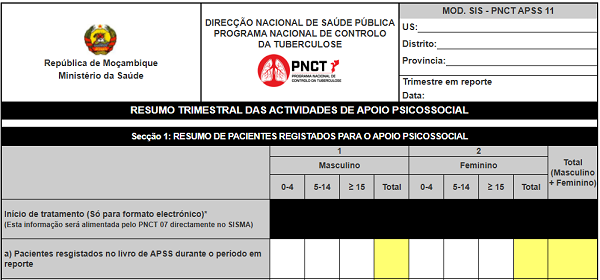
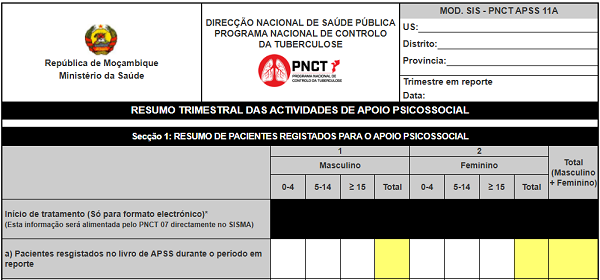
HTML: Adicionei endereço de acesso ao serviço 'Ficha de Resumo Trimestral de Avaliação de Resultados Intermediários de Tratamento de TB Resistente' e a sua respectiva prévia.

diff --git a/paginas/portfolio.html b/paginas/portfolio.html
@@ -73,6 +73,17 @@
             <main class="main main--no-padding">
                 <h1 class="portfolio__h1">Portfólio</h1>
                 <section class="portfolio__advertising">
+                    <h2 class="title title--fs-h2">Ficha de Resumo Trimestral de Avaliação de Resultados Intermediários de Tratamento de TB Resistente</h2>
+                    <span class="portfolio__advertising__time">Disponível desde: <time datetime="2024-11-30">30/11/2024</time>.</span>      
+                    <figure>
+                        <img src="../imagens/ficha-de-de-resumo-trimestral-de-avaliacao-de-resultados-intermediarios-de-tto-de-tb-resistente.png" alt="Ficha de Resumo Trimestral de Avaliação de Resultados Intermediários de Tratamento de TB Resistente" class="portfolio__advertising__img--border-b"/>
+                    </figure>
+                    <p class="portfolio__advertising__description">O serviço foi criado de acordo com o modelo da ficha de resumo trimestral de avaliação de resultados intermediários de tratamento de TB resistente actualmente vigente no Serviço Nacional de Saúde em Moçambique e as células são interativas, isto é, pode inserir valores nelas.</p>
+                    <div>
+                        <a href="https://quinamine.github.io/ficha-de-de-resumo-trimestral-de-avaliacao-de-resultados-intermediarios-de-tto-de-tb-resistente/index.html" target="_blank" class="portfolio__advertising__link">Acessar serviço <span class="link-acessar__raquo">&raquo;</span></a>
+                    </div>
+                </section>
+                <section class="portfolio__advertising">
                     <h2 class="title title--fs-h2">Totalizador de Resumo Trimestral de Avaliação de Tratamento de TB Resistente</h2>
                     <span class="portfolio__advertising__time">Disponível desde: <time datetime="2024-11-23">23/11/2024</time>.</span>      
                     <figure>
@@ -84,10 +95,10 @@
                     </div>
                 </section>
                 <section class="portfolio__advertising">
-                    <h2 class="title title--fs-h2">Totalizador de Resumo Trimestral das Actividades de Apoio Psicossocial (MOD. SIS - PNCT APSS 11)</h2>
+                    <h2 class="title title--fs-h2">Totalizador de Resumo Trimestral das Actividades de Apoio Psicossocial (MOD. SIS - PNCT APSS 11A)</h2>
                     <span class="portfolio__advertising__time">Disponível desde: <time datetime="2024-11-11">11/11/2024</time>.</span>      
                     <figure>
-                        <img src="../imagens/totalizador-de-resumo-trimestral-das-actividades-de-apoio-psicossocial-mod-sis-pnct-apss-11-a.png" alt="Totalizador de Resumo Trimestral das Actividades de Apoio Psicossocial (MOD. SIS - PNCT APSS 11)" class="portfolio__advertising__img--border-b"/>
+                        <img src="../imagens/totalizador-de-resumo-trimestral-das-actividades-de-apoio-psicossocial-mod-sis-pnct-apss-11-a.png" alt="Totalizador de Resumo Trimestral das Actividades de Apoio Psicossocial (MOD. SIS - PNCT APSS 11A)" class="portfolio__advertising__img--border-b"/>
                     </figure>
                     <p class="portfolio__advertising__description">Totaliza automaticamente o resumo trimestral das actividades de apoio psicossocial (MOD. SIS - PNCT APSS 11A) com base nos dados preenchidos pelo usuário. Foi criado de acordo com o modelo da respectiva ficha de resumo trimestral actualmente vigente no Serviço Nacional de Saúde em Moçambique.</p>
                     <div>
@@ -122,7 +133,7 @@
                     <figure>
                         <img src="../imagens/ficha-de-resumo-trimestral-de-cuidados-de-tb-em-grupos-de-alto-risco.png" alt="Ficha de Resumo Trimestral de Cuidados de TB em Grupos de Alto Risco" class="portfolio__advertising__img--border-b"/>
                     </figure>
-                    <p class="portfolio__advertising__description">O serviço foi criado de acordo com o modelo da Ficha de Resumo Trimestral de Cuidados de TB em Grupos de Alto Risco actualmente vigente no Serviço Nacional de Saúde em Moçambique e as células são interativas, isto é, pode inserir valores nelas.</p>
+                    <p class="portfolio__advertising__description">O serviço foi criado de acordo com o modelo da ficha de resumo trimestral de cuidados de TB em grupos de alto risco actualmente vigente no Serviço Nacional de Saúde em Moçambique e as células são interativas, isto é, pode inserir valores nelas.</p>
                     <div>
                         <a href="https://quinamine.github.io/ficha-de-resumo-trimestral-de-cuidados-de-tb-em-grupos-de-alto-risco/index.html" target="_blank" class="portfolio__advertising__link">Acessar serviço <span class="link-acessar__raquo">&raquo;</span></a>
                     </div>
@@ -322,8 +333,9 @@
             <aside class="aside-of-main aside-of-main--page-of-portfolio">
                 <h3 class="title aside-of-main__title">Projectos</h3>
                 <ul class="list list--ul">
+                    <li><a href=https://quinamine.github.io/ficha-de-de-resumo-trimestral-de-avaliacao-de-resultados-intermediarios-de-tto-de-tb-resistente/index.html>Ficha de Resumo Trimestral de Avaliação de Resultados Intermediários de Tratamento de TB Resistente</a></li>
                     <li><a href=https://quinamine.github.io/totalizador-de-resumo-trimestral-de-avaliacao-de-tto-de-tb-resistente/index.html>Totalizador de Resumo Trimestral de Avaliação de Tratamento de TB Resistente</a></li>
-                    <li><a href=https://quinamine.github.io/totalizador-de-resumo-trimestral-das-actividades-de-apoio-psicossocial-mod-sis-pnct-apss-11-a/index.html>Totalizador de Resumo Trimestral das Actividades de Apoio Psicossocial (MOD. SIS - PNCT APSS 11)</a></li>
+                    <li><a href=https://quinamine.github.io/totalizador-de-resumo-trimestral-das-actividades-de-apoio-psicossocial-mod-sis-pnct-apss-11-a/index.html>Totalizador de Resumo Trimestral das Actividades de Apoio Psicossocial (MOD. SIS - PNCT APSS 11A)</a></li>
                     <li><a href=https://quinamine.github.io/totalizador-de-resumo-trimestral-de-fortalecimento-de-sistemas-para-tb/index.html>Totalizador de Resumo Trimestral de Fortalecimento de Sistemas para TB</a></li>
                     <li><a href=https://quinamine.github.io//totalizador-de-resumo-trimestral-de-cuidados-de-tb-na-comunidade-e-parcerias-publico-privadas/index.html>Totalizador de Resumo Trimestral de Cuidados de TB na Comunidade e Parcerias Público-Privadas</a></li>
                     <li><a href=https://quinamine.github.io/ficha-de-resumo-trimestral-de-cuidados-de-tb-em-grupos-de-alto-risco/index.html>Ficha de Resumo Trimestral de Cuidados de TB em Grupos de Alto Risco</a></li>
@@ -377,8 +389,9 @@
                 <div>
                     <h4 class="title title--fs-h5 title--skills">Projectos</h4>
                     <ul>
+                        <li><a href=https://quinamine.github.io/ficha-de-de-resumo-trimestral-de-avaliacao-de-resultados-intermediarios-de-tto-de-tb-resistente/index.html>Ficha de Resumo Trimestral de Avaliação de Resultados Intermediários de Tratamento de TB Resistente</a></li>
                         <li><a href=https://quinamine.github.io/totalizador-de-resumo-trimestral-de-avaliacao-de-tto-de-tb-resistente/index.html>Totalizador de Resumo Trimestral de Avaliação de Tratamento de TB Resistente</a></li>
-                        <li><a href=https://quinamine.github.io/totalizador-de-resumo-trimestral-das-actividades-de-apoio-psicossocial-mod-sis-pnct-apss-11-a/index.html>Totalizador de Resumo Trimestral das Actividades de Apoio Psicossocial (MOD. SIS - PNCT APSS 11)</a></li>
+                        <li><a href=https://quinamine.github.io/totalizador-de-resumo-trimestral-das-actividades-de-apoio-psicossocial-mod-sis-pnct-apss-11-a/index.html>Totalizador de Resumo Trimestral das Actividades de Apoio Psicossocial (MOD. SIS - PNCT APSS 11A)</a></li>
                         <li><a href=https://quinamine.github.io/totalizador-de-resumo-trimestral-de-fortalecimento-de-sistemas-para-tb/index.html>Totalizador de Resumo Trimestral de Fortalecimento de Sistemas para TB</a></li>
                         <li><a href=https://quinamine.github.io//totalizador-de-resumo-trimestral-de-cuidados-de-tb-na-comunidade-e-parcerias-publico-privadas/index.html>Totalizador de Resumo Trimestral de Cuidados de TB na Comunidade e Parcerias Público-Privadas</a></li>
                         <li><a href=https://quinamine.github.io/ficha-de-resumo-trimestral-de-cuidados-de-tb-em-grupos-de-alto-risco/index.html>Ficha de Resumo Trimestral de Cuidados de TB em Grupos de Alto Risco</a></li>

diff --git a/index.html b/index.html
@@ -137,8 +137,9 @@
                 <div>
                     <h4 class="title title--fs-h5 title--skills">Projectos</h4>
                     <ul>
+                        <li><a href=https://quinamine.github.io/ficha-de-de-resumo-trimestral-de-avaliacao-de-resultados-intermediarios-de-tto-de-tb-resistente/index.html>Ficha de Resumo Trimestral de Avaliação de Resultados Intermediários de Tratamento de TB Resistente</a></li>
                         <li><a href=https://quinamine.github.io/totalizador-de-resumo-trimestral-de-avaliacao-de-tto-de-tb-resistente/index.html>Totalizador de Resumo Trimestral de Avaliação de Tratamento de TB Resistente</a></li>
-                        <li><a href=https://quinamine.github.io/totalizador-de-resumo-trimestral-das-actividades-de-apoio-psicossocial-mod-sis-pnct-apss-11-a/index.html>Totalizador de Resumo Trimestral das Actividades de Apoio Psicossocial (MOD. SIS - PNCT APSS 11)</a></li>
+                        <li><a href=https://quinamine.github.io/totalizador-de-resumo-trimestral-das-actividades-de-apoio-psicossocial-mod-sis-pnct-apss-11-a/index.html>Totalizador de Resumo Trimestral das Actividades de Apoio Psicossocial (MOD. SIS - PNCT APSS 11A)</a></li>
                         <li><a href=https://quinamine.github.io/totalizador-de-resumo-trimestral-de-fortalecimento-de-sistemas-para-tb/index.html>Totalizador de Resumo Trimestral de Fortalecimento de Sistemas para TB</a></li>
                         <li><a href=https://quinamine.github.io//totalizador-de-resumo-trimestral-de-cuidados-de-tb-na-comunidade-e-parcerias-publico-privadas/index.html>Totalizador de Resumo Trimestral de Cuidados de TB na Comunidade e Parcerias Público-Privadas</a></li>
                         <li><a href=https://quinamine.github.io/ficha-de-resumo-trimestral-de-cuidados-de-tb-em-grupos-de-alto-risco/index.html>Ficha de Resumo Trimestral de Cuidados de TB em Grupos de Alto Risco</a></li>

diff --git a/paginas/curriculumvitae.html b/paginas/curriculumvitae.html
@@ -188,8 +188,9 @@
                 <div>
                     <h4 class="title title--fs-h5 title--skills">Projectos</h4>
                     <ul>
+                        <li><a href=https://quinamine.github.io/ficha-de-de-resumo-trimestral-de-avaliacao-de-resultados-intermediarios-de-tto-de-tb-resistente/index.html>Ficha de Resumo Trimestral de Avaliação de Resultados Intermediários de Tratamento de TB Resistente</a></li>
                         <li><a href=https://quinamine.github.io/totalizador-de-resumo-trimestral-de-avaliacao-de-tto-de-tb-resistente/index.html>Totalizador de Resumo Trimestral de Avaliação de Tratamento de TB Resistente</a></li>
-                        <li><a href=https://quinamine.github.io/totalizador-de-resumo-trimestral-das-actividades-de-apoio-psicossocial-mod-sis-pnct-apss-11-a/index.html>Totalizador de Resumo Trimestral das Actividades de Apoio Psicossocial (MOD. SIS - PNCT APSS 11)</a></li>
+                        <li><a href=https://quinamine.github.io/totalizador-de-resumo-trimestral-das-actividades-de-apoio-psicossocial-mod-sis-pnct-apss-11-a/index.html>Totalizador de Resumo Trimestral das Actividades de Apoio Psicossocial (MOD. SIS - PNCT APSS 11A)</a></li>
                         <li><a href=https://quinamine.github.io/totalizador-de-resumo-trimestral-de-fortalecimento-de-sistemas-para-tb/index.html>Totalizador de Resumo Trimestral de Fortalecimento de Sistemas para TB</a></li>
                         <li><a href=https://quinamine.github.io//totalizador-de-resumo-trimestral-de-cuidados-de-tb-na-comunidade-e-parcerias-publico-privadas/index.html>Totalizador de Resumo Trimestral de Cuidados de TB na Comunidade e Parcerias Público-Privadas</a></li>
                         <li><a href=https://quinamine.github.io/ficha-de-resumo-trimestral-de-cuidados-de-tb-em-grupos-de-alto-risco/index.html>Ficha de Resumo Trimestral de Cuidados de TB em Grupos de Alto Risco</a></li>
